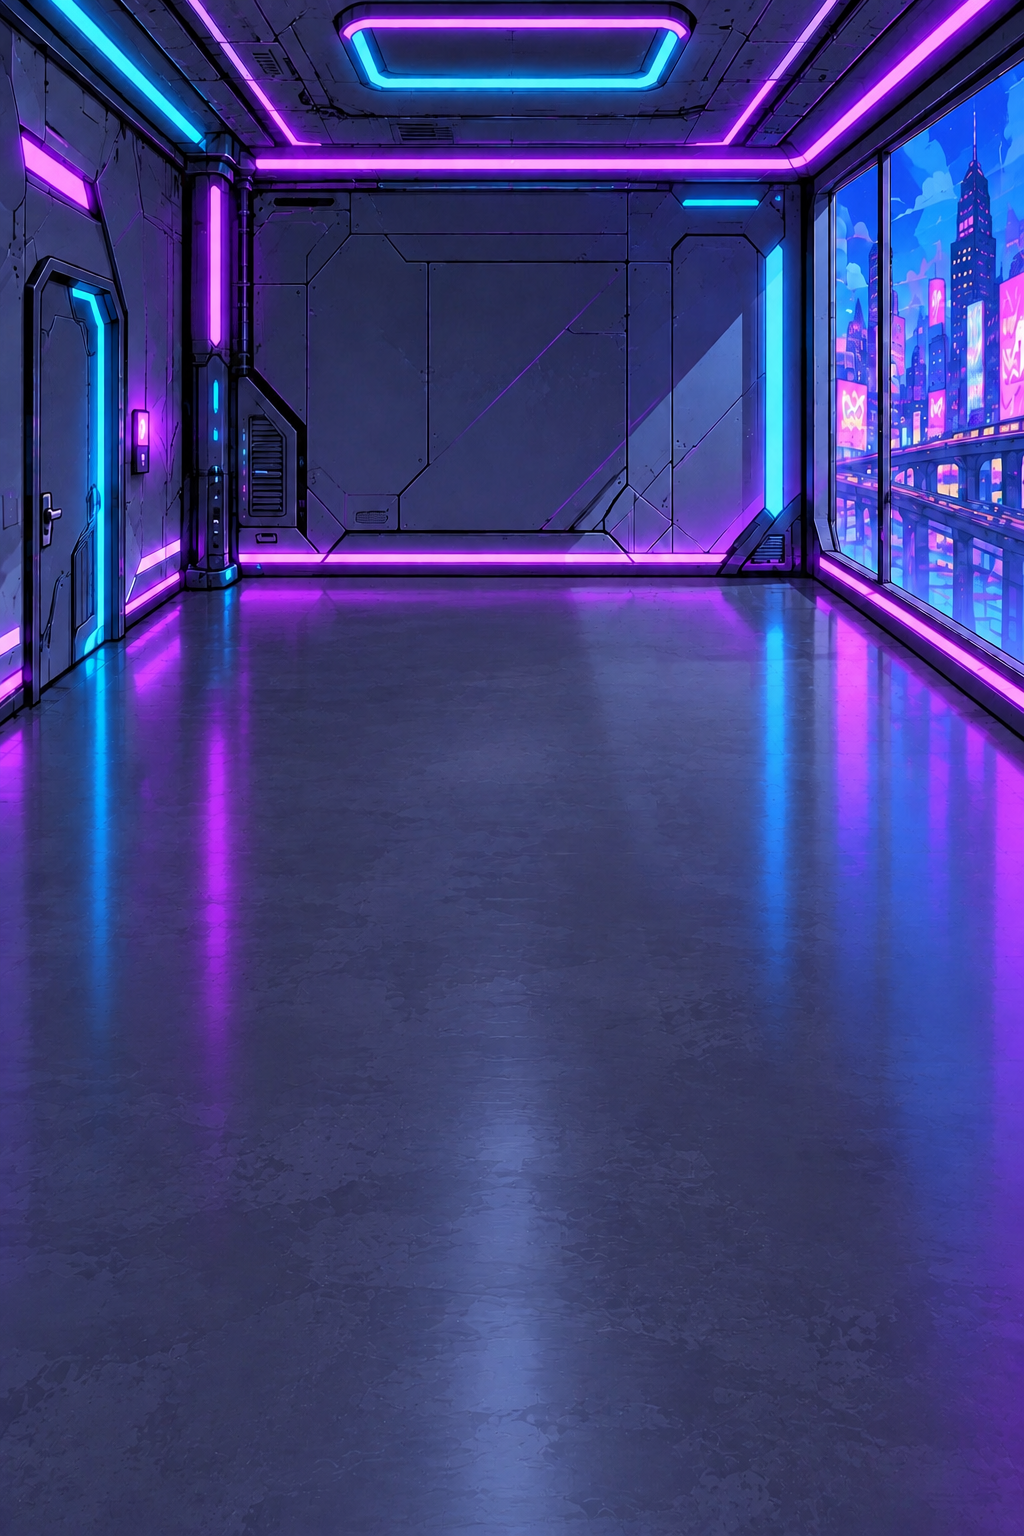
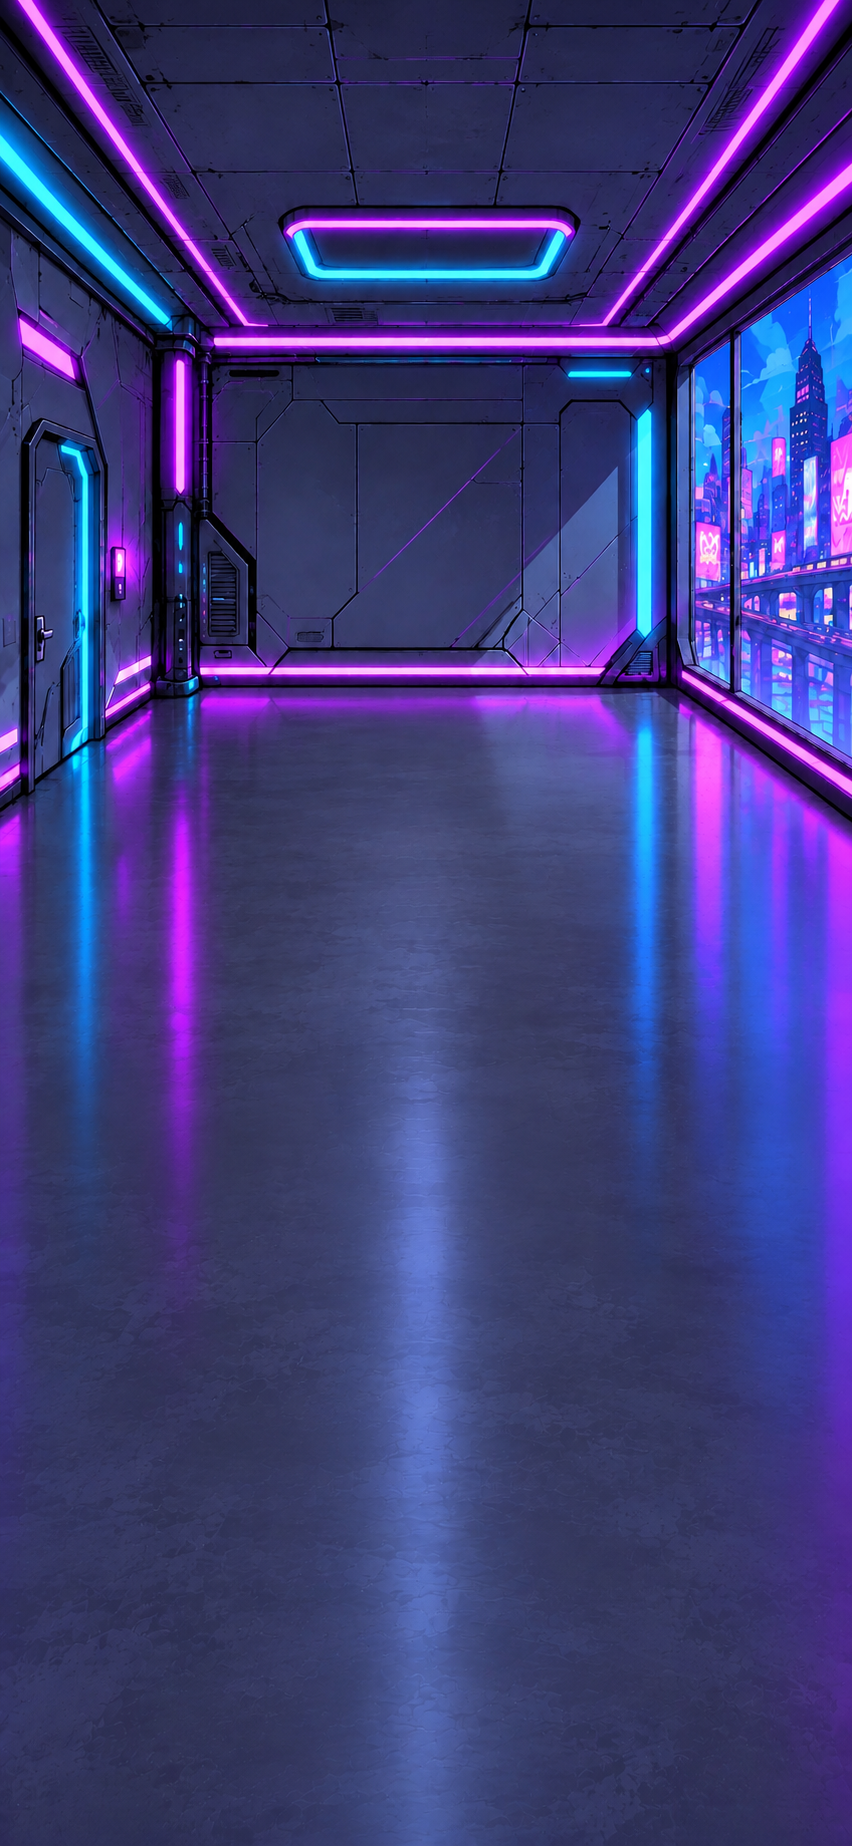
CYBER ROOMを全画面用の縦長の絵に
Claude-Session: https://claude.ai/code/session_01MXithgTc5umkveoyZShZHQ

diff --git a/src/core/home.ts b/src/core/home.ts
@@ -85,7 +85,6 @@ export interface HomeLayout {
   edge?: number;
 }
 
-const ROOM_FLOOR: Pt[] = [[300, 640], [770, 640], [960, 800], [985, 1290], [40, 1290], [60, 800]];
 
 export const HOME_LAYOUTS: Record<HomePlace, HomeLayout> = {
   // 2026-11-08 全画面用の 縦長の 絵(852x1846)。床・家具の 場所・奥行きの 点を この 絵で 測りなおした
@@ -94,7 +93,8 @@ export const HOME_LAYOUTS: Record<HomePlace, HomeLayout> = {
   pop: { w: 852, h: 1846, floor: [[215, 660], [640, 660], [800, 800], [830, 1600], [30, 1600], [50, 800]], scale: [0.09, 0.2], furniture: [[175, 628], [678, 628], [852, 770], [852, 1640], [0, 1640], [0, 760]], vanish: [439, 430] },
   // シークレットVIPルーム(企画者の絵 2026-10-22)
   room4: { w: 1024, h: 1536, floor: [[300, 600], [770, 600], [960, 780], [985, 1290], [40, 1290], [60, 780]], scale: [0.09, 0.19], furniture: [[250, 530], [812, 526], [1024, 690], [1024, 1290], [0, 1290], [0, 682]], vanish: [568, 339] },
-  future: { w: 1024, h: 1536, floor: ROOM_FLOOR, scale: [0.09, 0.19], furniture: [[240, 584], [815, 584], [1024, 735], [1024, 1290], [0, 1290], [0, 720]], vanish: [562, 401] },
+  // 2026-11-08 全画面用の 縦長の 絵(852x1846)。床などを この 絵で 測りなおした
+  future: { w: 852, h: 1846, floor: [[240, 715], [640, 715], [800, 850], [830, 1600], [30, 1600], [50, 850]], scale: [0.09, 0.2], furniture: [[200, 680], [680, 680], [852, 800], [852, 1640], [0, 1640], [0, 810]], vanish: [466, 530] },
 };
 
 /** 点が多角形の中にあるか */

diff --git a/src/scenes/HomeScene.ts b/src/scenes/HomeScene.ts
@@ -39,7 +39,7 @@ const DEPTH = { monz: 10, effect: 30, ui: 40, popup: 60 };
 
 /** 企画者の部屋の絵(design/home/rooms/ → public/assets/home/rooms/)。_thumb は部屋を選ぶ画面の小さい絵 */
 /** 作り直した 部屋の 絵(2026-11-08 全画面用。名前を 変えて 古い 絵と まざらないように) */
-const ROOM_FILE_NAME: Partial<Record<HomePlace, string>> = { street: 'street_v2', pop: 'pop_v2' };
+const ROOM_FILE_NAME: Partial<Record<HomePlace, string>> = { street: 'street_v2', pop: 'pop_v2', future: 'future_v2' };
 export const homeImageFile = (p: HomePlace, thumb = false) => `assets/home/rooms/${ROOM_FILE_NAME[p] ?? p}${thumb ? '_thumb' : ''}.webp`;
 export const homeImageKey = (p: HomePlace, thumb = false) => `home:bg:${p}${thumb ? ':thumb' : ''}`;
 
